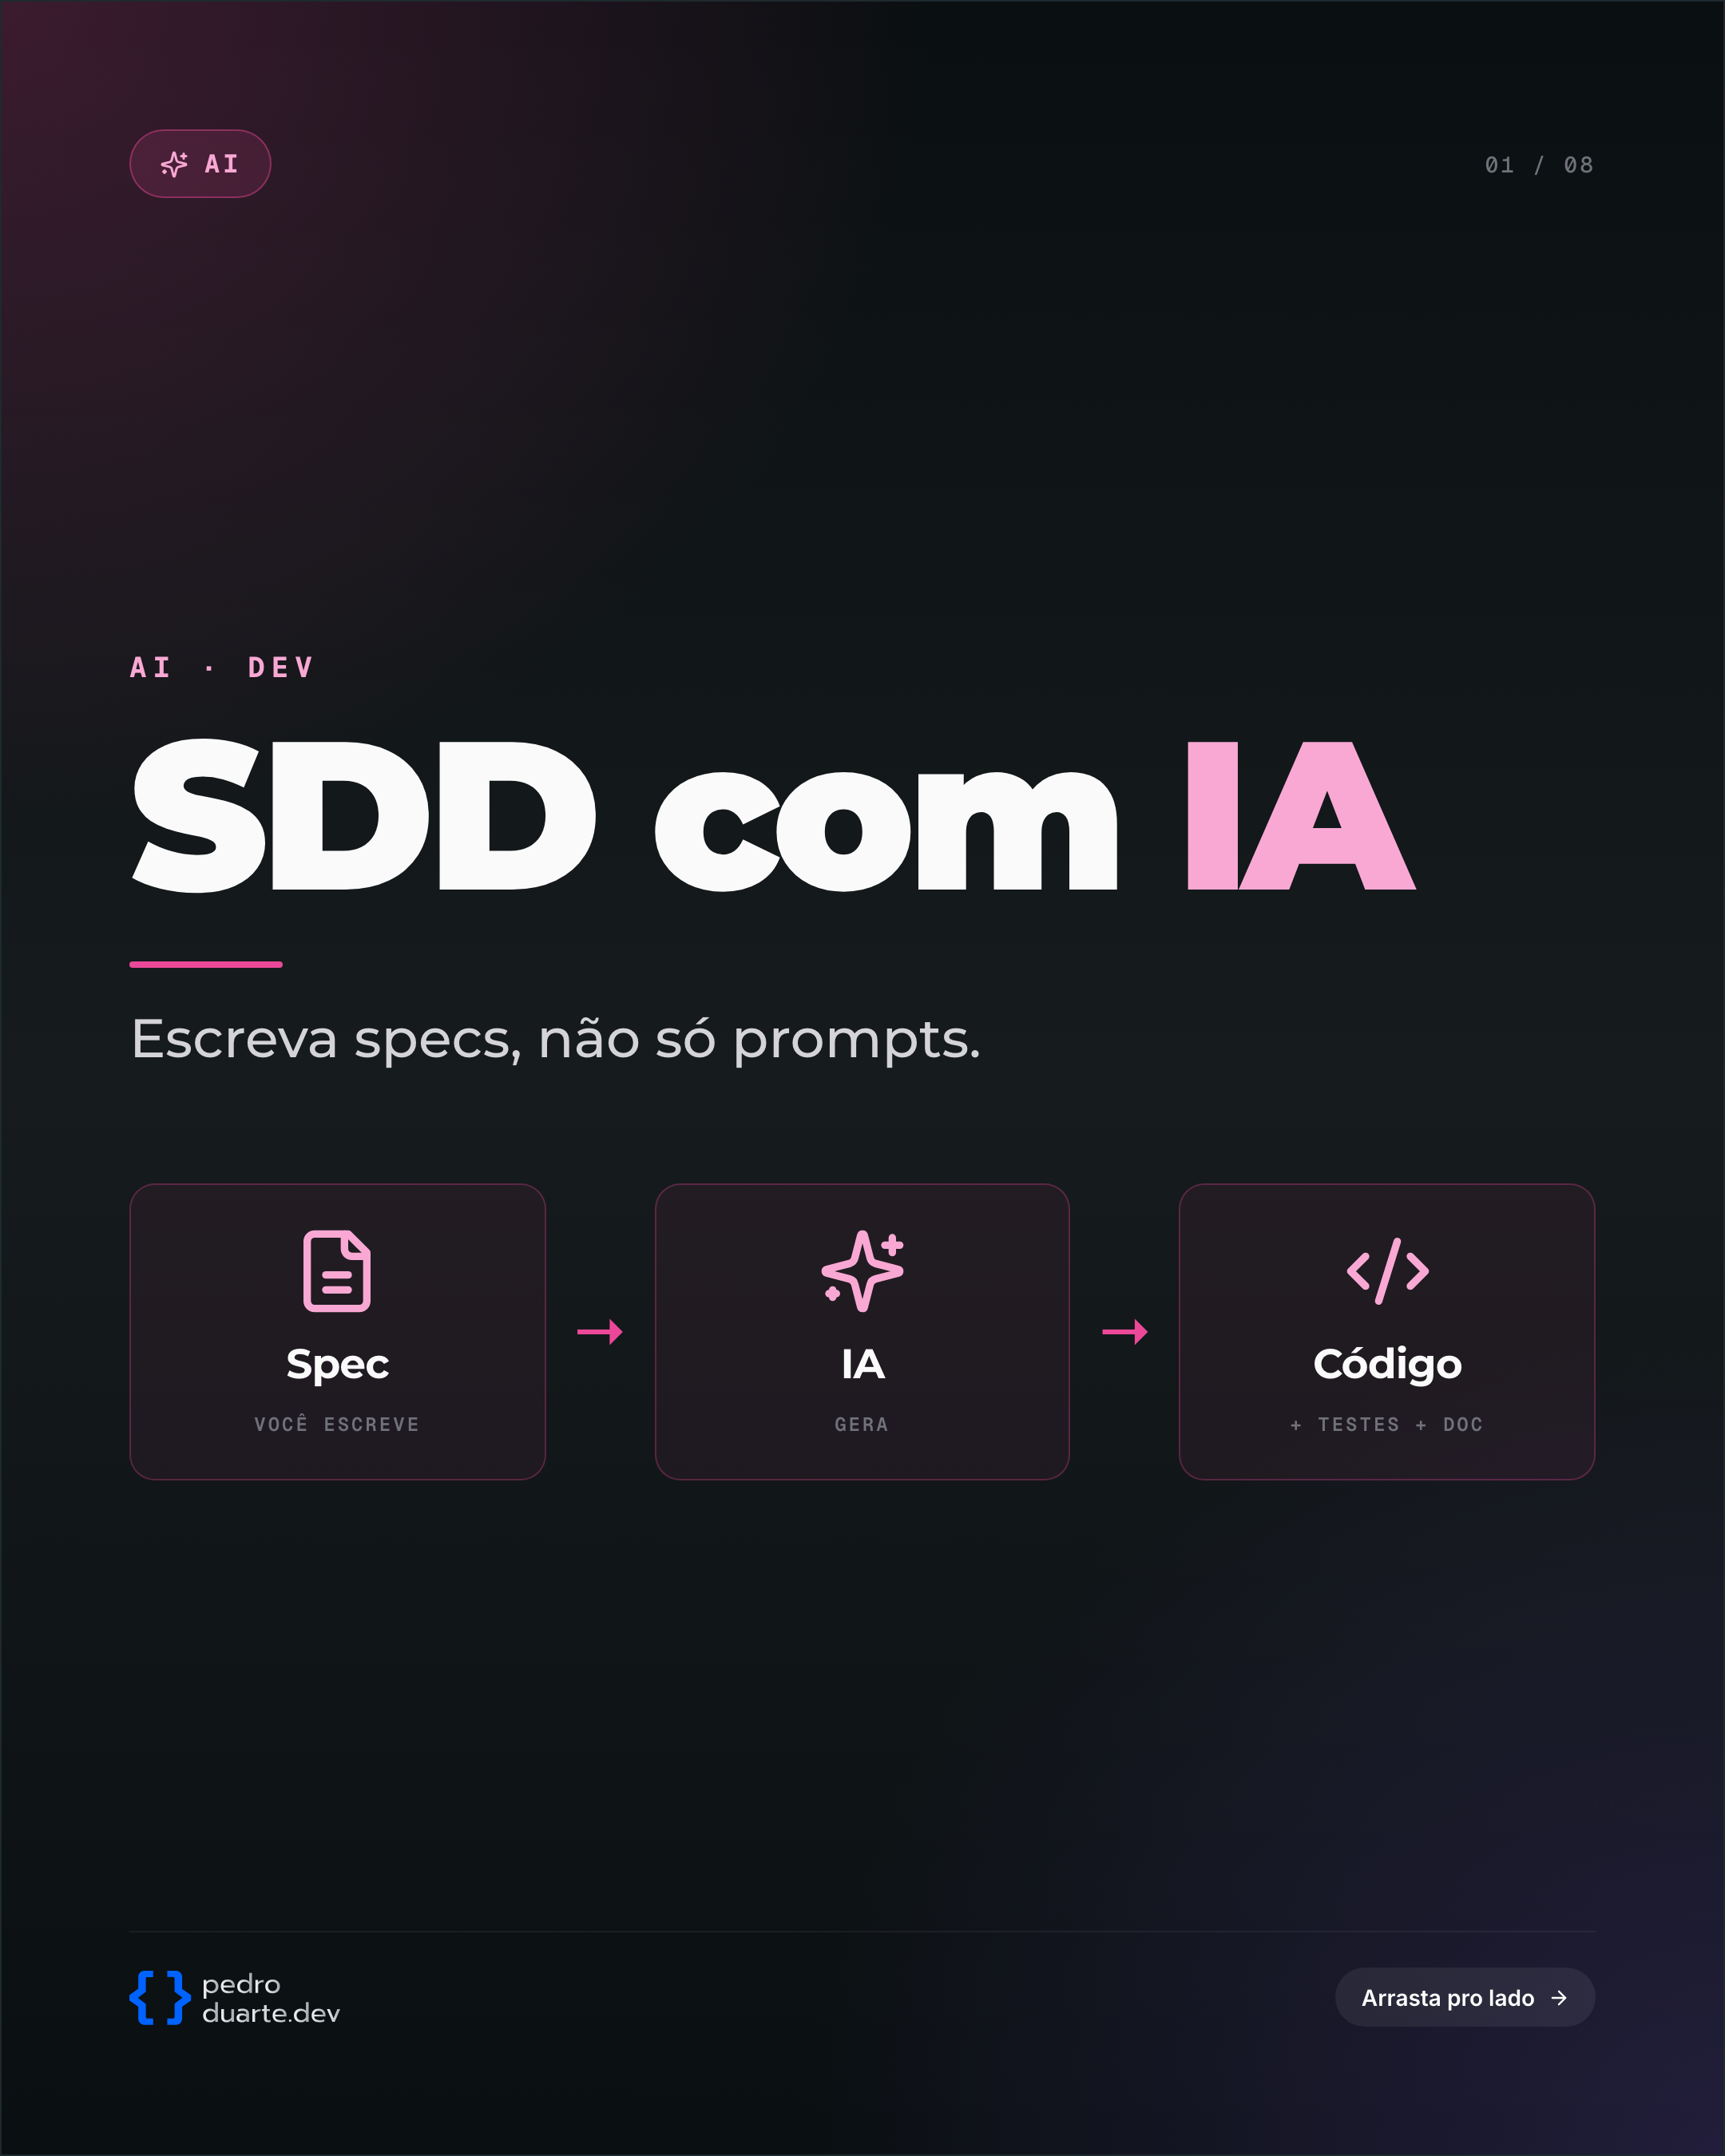
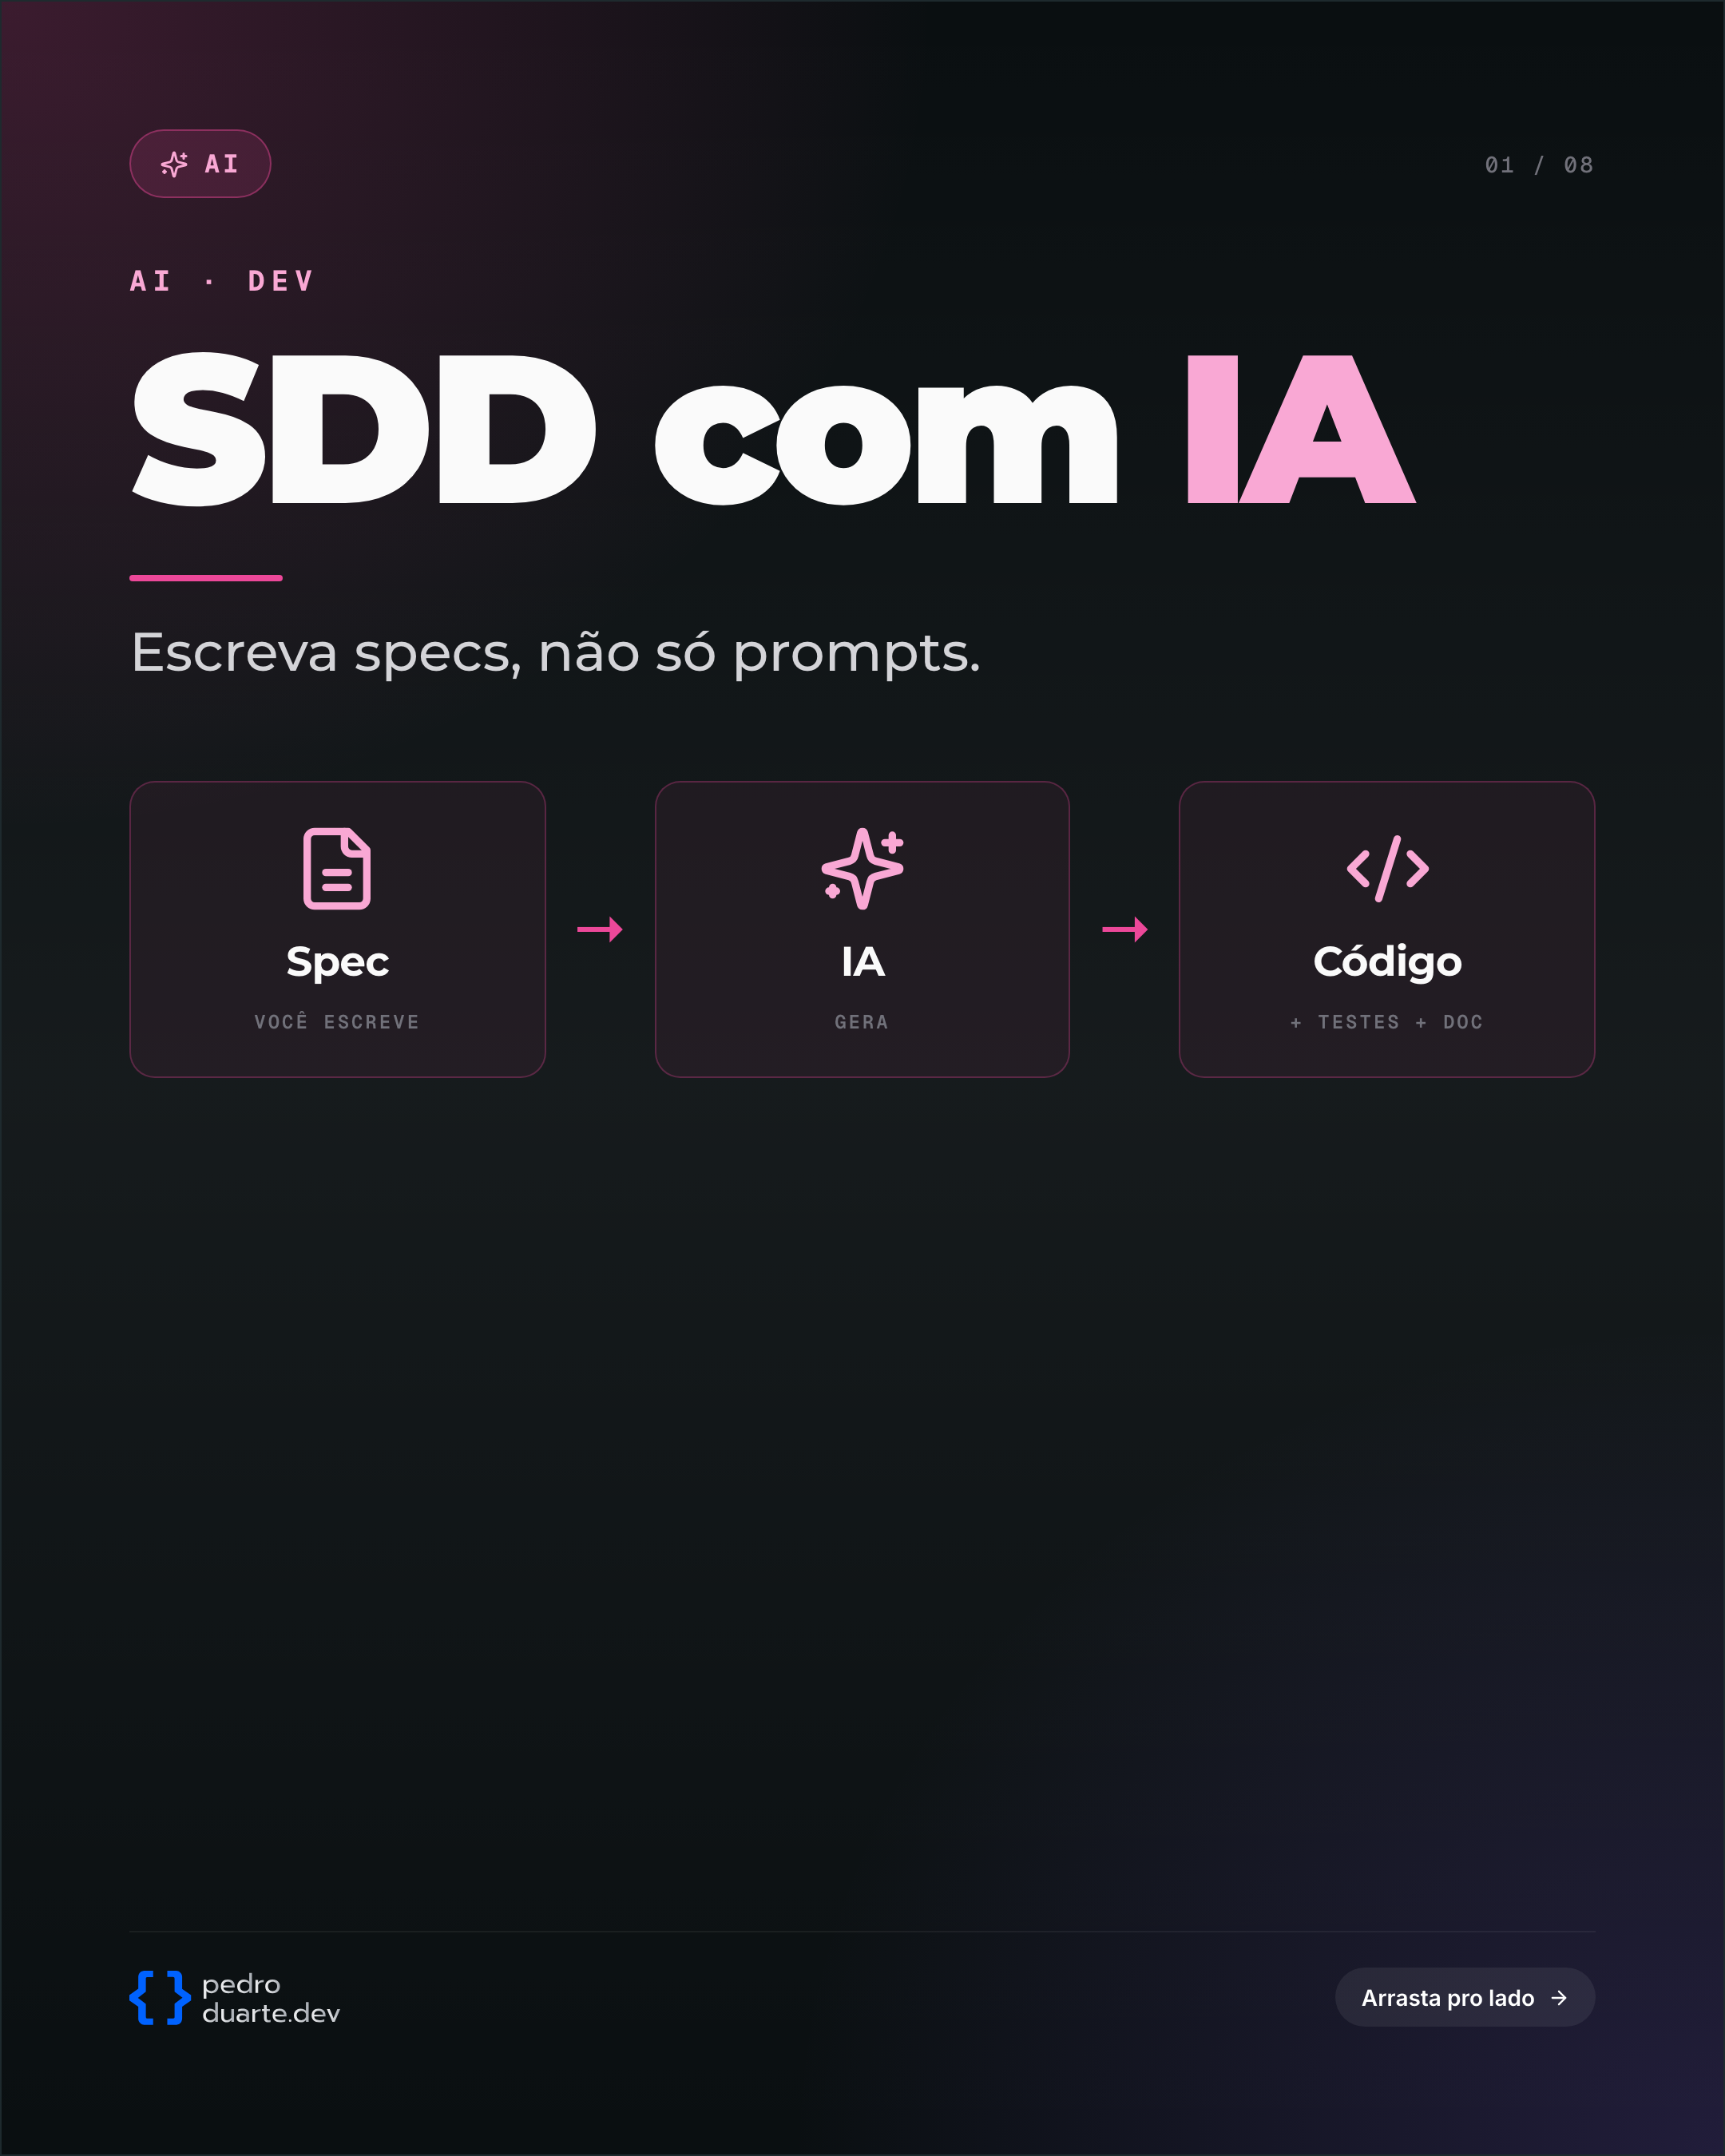
Capa SDD 4:5: também alinhada ao topo
Aplica preferência de alinhamento top também na capa (antes era
centralizada).

diff --git a/marketing/conteudo/carrossel-sdd-ia-2026-05-22/carrossel-insta.html b/marketing/conteudo/carrossel-sdd-ia-2026-05-22/carrossel-insta.html
@@ -121,8 +121,9 @@
     flex: 1;
     display: flex;
     flex-direction: column;
-    justify-content: center;
-    gap: 70px;
+    justify-content: flex-start;
+    gap: 60px;
+    margin-top: 40px;
   }
   .capa-hero { display: flex; flex-direction: column; }
   .capa .eyebrow {